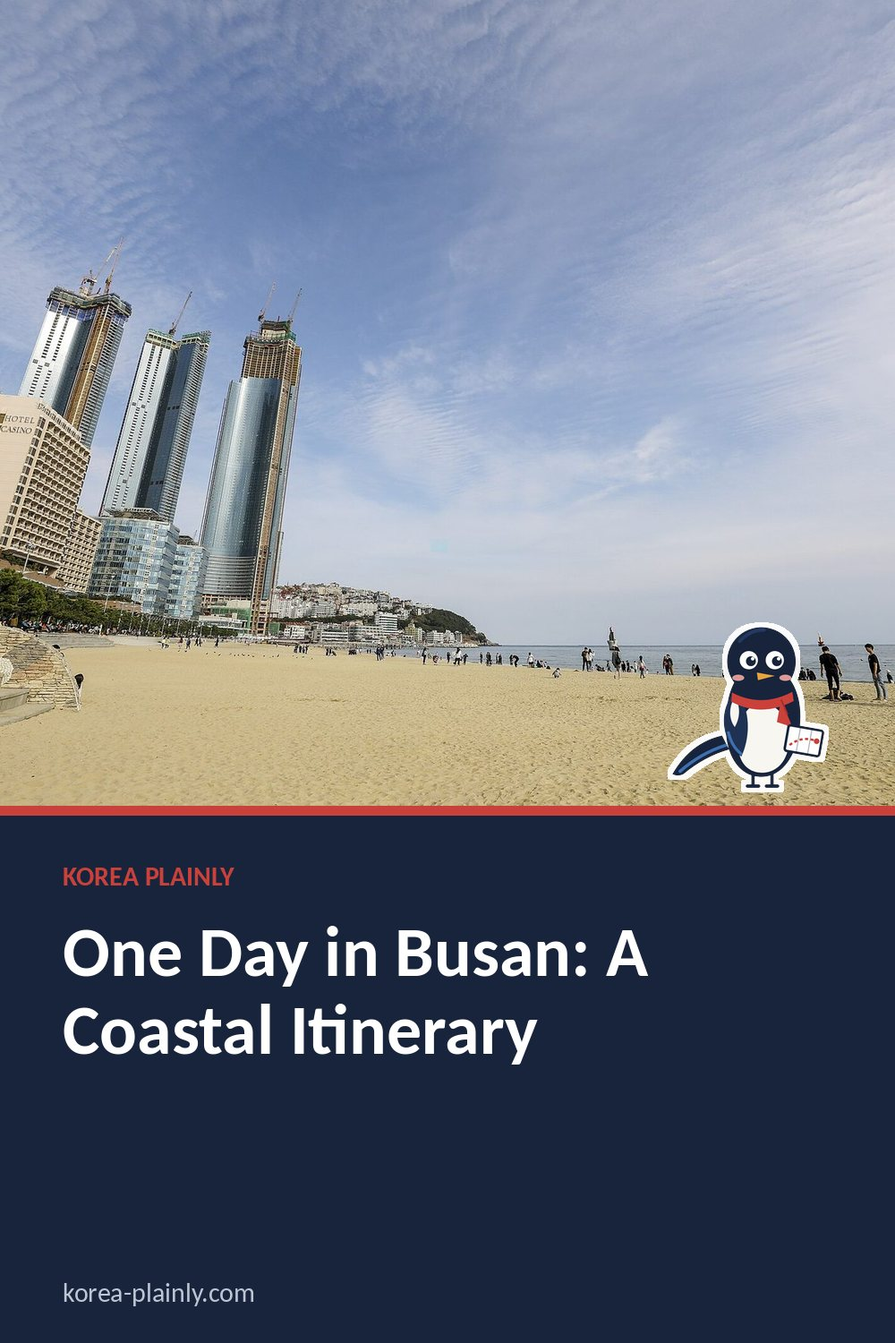
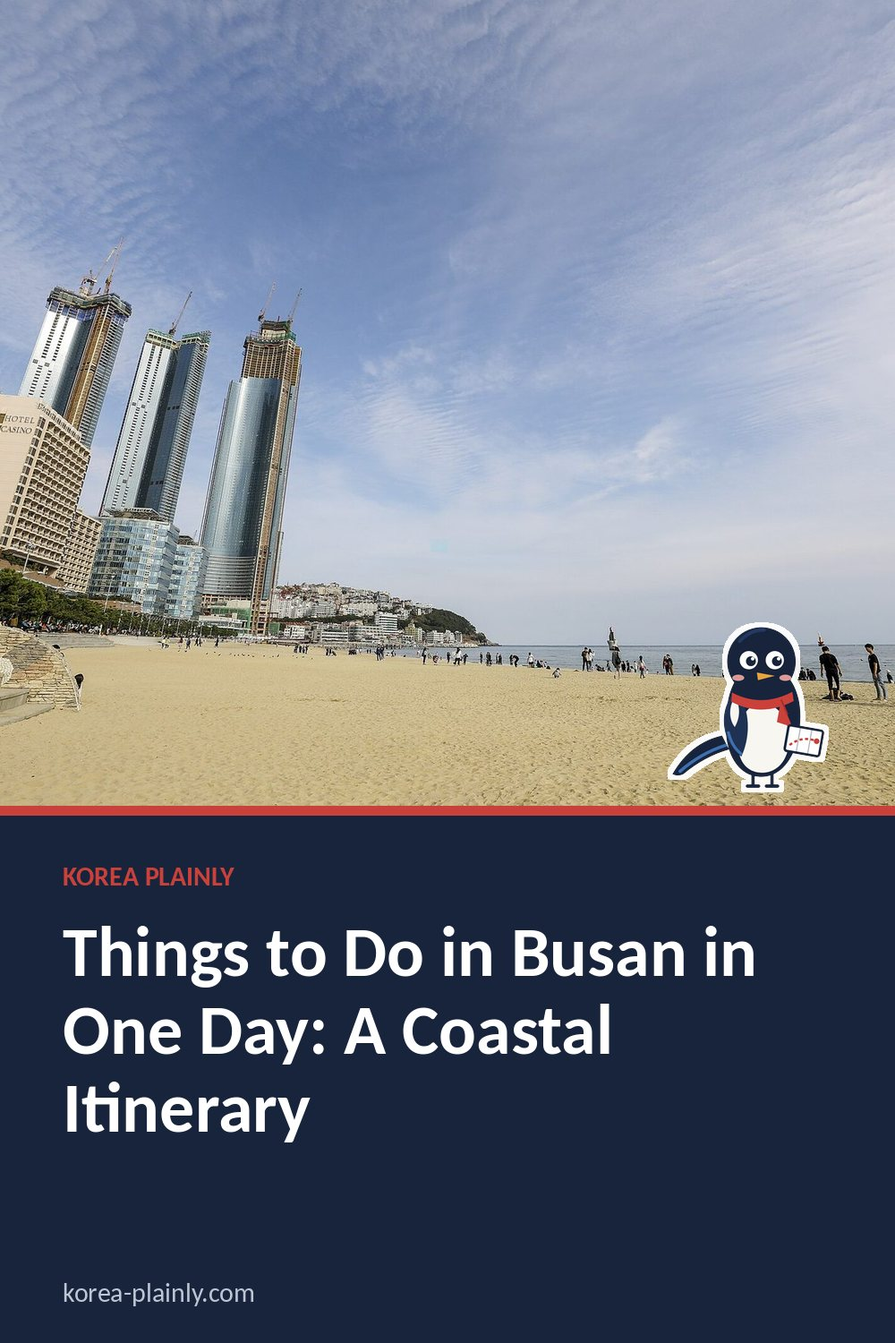
Busan one-day guide: retitle for 'things to do in busan for a day' and expand with timings, Blueline Park, Gwangalli, a west-side plan and new FAQ; retry Seoraksan hikes cover photo (Ulsanbawi); queue won and winter ice skating topics plus two practical topics
Claude-Session: https://claude.ai/code/session_01MMQnqEFzv8BAtP6HV673Zg

Changed region(s): [[0.062, 0.6747, 0.868, 0.8587]]

diff --git a/busan-1-day-itinerary.html b/busan-1-day-itinerary.html
@@ -11,13 +11,11 @@
 >
 
 <link rel="stylesheet" href="style.css?v=20261015-1">
-<title>
-One Day in Busan: A Coastal Itinerary | Korea Plainly
-</title>
+<title>Things to Do in Busan in One Day: A Coastal Itinerary</title>
 
 <meta
   name="description"
-  content="Spend one day on Busan's east coast: Haedong Yonggungsa Temple in the morning, Haeundae Beach, a Korean spa in Centum City and dinner by the sea."
+  content="Things to do in Busan in one day: Haedong Yonggungsa Temple, Haeundae Beach and Blueline Park, a Centum City spa and Gwangalli at night."
 >
 <link
   rel="canonical"
@@ -31,12 +29,12 @@ One Day in Busan: A Coastal Itinerary | Korea Plainly
 
 <meta
   property="og:title"
-  content="One Day in Busan: A Coastal Itinerary"
+  content="Things to Do in Busan in One Day: A Coastal Itinerary"
 >
 
 <meta
   property="og:description"
-  content="Spend one day on Busan's east coast: Haedong Yonggungsa Temple in the morning, Haeundae Beach, a Korean spa in Centum City and dinner by the sea."
+  content="Things to do in Busan in one day: Haedong Yonggungsa Temple, Haeundae Beach and Blueline Park, a Centum City spa and Gwangalli at night."
 >
 
 <meta
@@ -61,12 +59,12 @@ One Day in Busan: A Coastal Itinerary | Korea Plainly
 
 <meta
   name="twitter:title"
-  content="One Day in Busan: A Coastal Itinerary"
+  content="Things to Do in Busan in One Day: A Coastal Itinerary"
 >
 
 <meta
   name="twitter:description"
-  content="Spend one day on Busan's east coast: Haedong Yonggungsa Temple in the morning, Haeundae Beach, a Korean spa in Centum City and dinner by the sea."
+  content="Things to do in Busan in one day: Haedong Yonggungsa Temple, Haeundae Beach and Blueline Park, a Centum City spa and Gwangalli at night."
 >
 
 <meta
@@ -249,9 +247,9 @@ footer {
 <link rel="stylesheet" href="article.css?v=3">
 <link rel="stylesheet" href="https://fonts.googleapis.com/css2?family=DM+Sans:wght@400;500;600;700&family=Playfair+Display:ital,wght@0,600;1,600&display=swap">
 <link rel="icon" href="/favicon.svg" type="image/svg+xml">
-<script type="application/ld+json" id="kp-faq-ld">{"@context": "https://schema.org", "@type": "FAQPage", "mainEntity": [{"@type": "Question", "name": "Can I visit Busan as a day trip from Seoul?", "acceptedAnswer": {"@type": "Answer", "text": "Yes, with the KTX it is possible, but it makes for a long day. You will see more if you stay at least one night, ideally near Haeundae for this plan."}}, {"@type": "Question", "name": "How do I get to Haedong Yonggungsa?", "acceptedAnswer": {"@type": "Answer", "text": "The simplest way is a taxi from Haeundae, about 20 to 30 minutes. Local buses also go there; check the current route on Naver Map or KakaoMap."}}, {"@type": "Question", "name": "Is this plan good on a rainy day?", "acceptedAnswer": {"@type": "Answer", "text": "Partly. The temple and beach are outdoors, but the afternoon at SPA LAND and Shinsegae Centum City is indoors, so you can stretch that part if the weather is poor."}}]}</script>
-<script type="application/ld+json" id="kp-article-ld">{"@context": "https://schema.org", "@type": "Article", "headline": "One Day in Busan: A Coastal Itinerary", "description": "Spend one day on Busan", "image": ["https://korea-plainly.com/photo-busan-1-day-itinerary.jpg"], "datePublished": "2026-10-13", "dateModified": "2026-10-15", "author": {"@type": "Person", "name": "Jungsuk Kim", "url": "https://korea-plainly.com/about.html#author"}, "publisher": {"@type": "Organization", "name": "Korea Plainly", "url": "https://korea-plainly.com/"}, "mainEntityOfPage": "https://korea-plainly.com/busan-1-day-itinerary.html"}</script>
-<script type="application/ld+json" id="kp-breadcrumb-ld">{"@context": "https://schema.org", "@type": "BreadcrumbList", "itemListElement": [{"@type": "ListItem", "position": 1, "name": "Home", "item": "https://korea-plainly.com/"}, {"@type": "ListItem", "position": 2, "name": "Guides", "item": "https://korea-plainly.com/guides.html"}, {"@type": "ListItem", "position": 3, "name": "Travel Basics", "item": "https://korea-plainly.com/guides.html?category=travel"}, {"@type": "ListItem", "position": 4, "name": "One Day in Busan: A Coastal Itinerary", "item": "https://korea-plainly.com/busan-1-day-itinerary.html"}]}</script>
+<script type="application/ld+json" id="kp-faq-ld">{"@context": "https://schema.org", "@type": "FAQPage", "mainEntity": [{"@type": "Question", "name": "Is one day in Busan enough?", "acceptedAnswer": {"@type": "Answer", "text": "One day is enough to see the highlights of one side of the city, such as the temple, Haeundae and Gwangalli on the east coast. Two days let you add Gamcheon, Jagalchi and Nampo-dong on the west side without rushing."}}, {"@type": "Question", "name": "Can I visit Busan as a day trip from Seoul?", "acceptedAnswer": {"@type": "Answer", "text": "Yes, with the KTX it is possible, but it means about five hours on the train. Leave Seoul early, follow the west-side plan to stay close to Busan Station, and book your return train in advance. You will see more if you stay at least one night."}}, {"@type": "Question", "name": "Is this plan good on a rainy day?", "acceptedAnswer": {"@type": "Answer", "text": "Partly. The temple, beach and Blueline Park are outdoors and less pleasant in heavy rain, but the afternoon at SPA LAND and Shinsegae Centum City is indoors, so you can start there and stretch it if the weather is poor."}}]}</script>
+<script type="application/ld+json" id="kp-article-ld">{"@context": "https://schema.org", "@type": "Article", "headline": "Things to Do in Busan in One Day: A Coastal Itinerary", "description": "Things to do in Busan in one day: Haedong Yonggungsa Temple, Haeundae Beach and Blueline Park, a Centum City spa and Gwangalli at night.", "image": ["https://korea-plainly.com/photo-busan-1-day-itinerary.jpg"], "datePublished": "2026-10-13", "dateModified": "2026-10-30", "author": {"@type": "Person", "name": "Jungsuk Kim", "url": "https://korea-plainly.com/about.html#author"}, "publisher": {"@type": "Organization", "name": "Korea Plainly", "url": "https://korea-plainly.com/"}, "mainEntityOfPage": "https://korea-plainly.com/busan-1-day-itinerary.html"}</script>
+<script type="application/ld+json" id="kp-breadcrumb-ld">{"@context": "https://schema.org", "@type": "BreadcrumbList", "itemListElement": [{"@type": "ListItem", "position": 1, "name": "Home", "item": "https://korea-plainly.com/"}, {"@type": "ListItem", "position": 2, "name": "Guides", "item": "https://korea-plainly.com/guides.html"}, {"@type": "ListItem", "position": 3, "name": "Travel Basics", "item": "https://korea-plainly.com/guides.html?category=travel"}, {"@type": "ListItem", "position": 4, "name": "Things to Do in Busan in One Day: A Coastal Itinerary", "item": "https://korea-plainly.com/busan-1-day-itinerary.html"}]}</script>
 <meta property="article:published_time" content="2026-10-13">
 </head>
 
@@ -282,12 +280,12 @@ TRAVEL BASICS · ITINERARY
 </div>
 
 <h1>
-One Day in Busan: A Coastal Itinerary
+Things to Do in Busan in One Day: A Coastal Itinerary
 </h1>
-<p class="kp-date" data-kp="date">By <a href="about.html#author">Jungsuk Kim</a>, Korea Plainly · Published <time datetime="2026-10-13">13 October 2026</time> · Updated <time datetime="2026-10-15">15 October 2026</time></p>
+<p class="kp-date" data-kp="date">By <a href="about.html#author">Jungsuk Kim</a>, Korea Plainly · Published <time datetime="2026-10-13">13 October 2026</time> · Updated <time datetime="2026-10-30">30 October 2026</time></p>
 
 <p class="dek">
-Spend one day on Busan's east coast: Haedong Yonggungsa Temple in the morning, Haeundae Beach, a Korean spa in Centum City and dinner by the sea.
+Things to do in Busan in one day: Haedong Yonggungsa Temple, Haeundae Beach and Blueline Park, a Centum City spa and Gwangalli at night.
 </p>
 
 <img
@@ -299,11 +297,11 @@ Spend one day on Busan's east coast: Haedong Yonggungsa Temple in the morning, H
 
 <article>
 
-<p>Busan is spread out along the coast, so the best way to see it in a day is to stay on one side of the city. This plan follows the east coast: a temple on the rocks in the morning, Haeundae Beach in the middle of the day and a Korean spa in Centum City in the afternoon, finishing with dinner back by the sea. The stops are close enough that you spend minutes, not hours, getting between them.</p>
+<p>Busan stretches for more than 40 kilometres along the coast, and the most common first-day mistake is trying to see both ends of it. If you are wondering what to do in Busan in one day, the answer is to pick one side of the city and stay there. This plan follows the east coast: a temple on the rocks in the morning, Haeundae Beach and the old coastal railway at midday, a long soak in a Centum City spa in the afternoon, and the lit-up Gwangan Bridge after dinner. Each hop takes 10 to 30 minutes, so you spend the day seeing things rather than sitting on the subway.</p>
 
-<div class="tip"><strong>Coming from Seoul?</strong> The KTX train from Seoul Station to Busan Station takes about two and a half hours. Busan Station is on the other side of the city from Haeundae, so allow about an hour by subway (Line 1, then Line 2) or stay near Haeundae the night before.</div>
+<div class="tip"><strong>Coming from Seoul?</strong> The KTX from Seoul Station to Busan Station takes about two and a half hours. Busan Station is on the old side of the city, far from Haeundae, so allow about an hour by subway (Line 1 to Seomyeon, then Line 2) or stay near Haeundae the night before. If you are starting the day at Busan Station, the west-side plan further down may suit you better.</div>
 
-<nav class="kp-toc" data-kp="toc" aria-label="On this page"><p>On this page</p><ol><li><a href="#morning-haedong-yonggungsa-temple">Morning: Haedong Yonggungsa Temple</a></li><li><a href="#midday-haeundae-beach">Midday: Haeundae Beach</a></li><li><a href="#afternoon-a-korean-spa-in-centum-city">Afternoon: a Korean spa in Centum City</a></li><li><a href="#evening-dinner-by-the-sea">Evening: dinner by the sea</a></li><li><a href="#if-you-have-more-time">If you have more time</a></li><li><a href="#practical-tips-for-a-day-in-busan">Practical tips for a day in Busan</a></li><li><a href="#faq">FAQ</a></li></ol></nav>
+<nav class="kp-toc" data-kp="toc" aria-label="On this page"><p>On this page</p><ol><li><a href="#the-day-at-a-glance">The day at a glance</a></li><li><a href="#morning-haedong-yonggungsa-temple">Morning: Haedong Yonggungsa Temple</a></li><li><a href="#midday-haeundae-beach">Midday: Haeundae Beach and Blueline Park</a></li><li><a href="#afternoon-a-korean-spa-in-centum-city">Afternoon: a Korean spa in Centum City</a></li><li><a href="#evening-dinner-by-the-sea">Evening: dinner by the sea</a></li><li><a href="#west-side-plan">If you start at Busan Station: the west-side plan</a></li><li><a href="#practical-tips-for-a-day-in-busan">Practical tips for a day in Busan</a></li><li><a href="#faq">FAQ</a></li></ol></nav>
 <!-- kp-video -->
 <figure class="kp-video kp-long"><style>.kp-video{margin:1.5rem auto;max-width:300px;text-align:center}.kp-video .kp-video-box{position:relative;display:block;aspect-ratio:9/16;border-radius:14px;overflow:hidden;background:#111}.kp-video img,.kp-video iframe{position:absolute;inset:0;width:100%;height:100%;object-fit:cover;border:0;margin:0}.kp-video .kp-play{position:absolute;left:50%;top:30%;width:72px;height:72px;margin:-36px 0 0 -36px;border-radius:50%;background:rgba(201,65,58,.92);box-shadow:0 4px 18px rgba(0,0,0,.35)}.kp-video .kp-play:after{content:'';position:absolute;left:29px;top:22px;border-style:solid;border-width:14px 0 14px 22px;border-color:transparent transparent transparent #fff}.kp-video p{font-size:.9rem;margin:.5rem 0 0;color:#5b6472}.kp-video.kp-long{max-width:820px}.kp-video.kp-long .kp-video-box{aspect-ratio:16/9}.kp-video.kp-long .kp-play{top:50%}.kp-video .kp-sub{margin-top:10px}.kp-sub{display:inline-flex;align-items:center;gap:8px;background:#c9413a;color:#fff!important;font-weight:700;font-size:14px;line-height:1;padding:10px 16px;border-radius:999px;text-decoration:none!important;white-space:nowrap}.kp-sub:before{content:'';border-style:solid;border-width:6px 0 6px 10px;border-color:transparent transparent transparent #fff}.kp-sub:hover{background:#a8332d}</style>
 <a class="kp-video-box" href="https://www.youtube.com/watch?v=5vIbm2LQPmY" data-yt="5vIbm2LQPmY" aria-label="Play video: Things to Do in Busan in One Day: Temple, Beach and Spa" target="_blank" rel="noopener"><img src="img/video-busan-1-day-itinerary-long.jpg" alt="Things to Do in Busan in One Day: Temple, Beach and Spa" width="1280" height="720" loading="lazy"><span class="kp-play"></span></a>
@@ -312,34 +310,50 @@ Spend one day on Busan's east coast: Haedong Yonggungsa Temple in the morning, H
 <script type="application/ld+json">{"@context": "https://schema.org", "@type": "VideoObject", "name": "Things to Do in Busan in One Day: Temple, Beach and Spa", "description": "One Day in Busan: Temple, Haeundae Beach and Spa: the full guide as a video.", "thumbnailUrl": ["https://korea-plainly.com/img/video-busan-1-day-itinerary-long.jpg"], "uploadDate": "2026-10-14T23:09:13+09:00", "duration": "PT539S", "embedUrl": "https://www.youtube.com/embed/5vIbm2LQPmY", "url": "https://www.youtube.com/watch?v=5vIbm2LQPmY"}</script><script>document.querySelectorAll('.kp-video-box[data-yt]').forEach(function(a){a.addEventListener('click',function(e){e.preventDefault();var f=document.createElement('iframe');f.src='https://www.youtube-nocookie.com/embed/'+a.dataset.yt+'?autoplay=1&playsinline=1&rel=0';f.title=a.getAttribute('aria-label');f.allow='autoplay; encrypted-media; picture-in-picture';f.allowFullscreen=true;var d=document.createElement('div');d.className='kp-video-box';d.appendChild(f);a.replaceWith(d);});});</script>
 </figure>
 <!-- /kp-video -->
-<h2 id="morning-haedong-yonggungsa-temple">Morning: Haedong Yonggungsa Temple</h2>
-<p>Start at <a href="busan-culture-haedong-yonggungsa-temple.html">Haedong Yonggungsa</a>, a Buddhist temple built on the rocks above the sea in Gijang, north-east of Haeundae. It is one of the few Korean temples on the shoreline rather than in the mountains, and it gets busy from mid-morning, so go early. A taxi from Haeundae takes around 20 to 30 minutes depending on traffic; local buses also run, and Naver Map or KakaoMap will show the current route.</p>
-<p>Allow about an hour. There are steps down to the main hall, and the temple is a place of worship, so keep your voice low and be considerate with photos.</p>
-<p>The temple is in the Osiria area, which also has a large outlet mall and resorts. If you would rather wake up nearby, see our guide to <a href="busan-stay-ananti-at-busan-cove.html">Ananti at Busan Cove</a>.</p>
+<h2 id="the-day-at-a-glance">The day at a glance</h2>
+<ul>
+<li><strong>8:00–10:00</strong> Haedong Yonggungsa Temple, before the tour groups</li>
+<li><strong>10:30–13:30</strong> Haeundae Beach, Blueline Park and lunch at the market</li>
+<li><strong>14:00–17:30</strong> SPA LAND or shopping in Centum City</li>
+<li><strong>18:00 onwards</strong> Dinner in Haeundae or Gwangalli, then the bridge lights</li>
+</ul>
+<p>Treat the times as a rhythm rather than a timetable. The key point is to do the temple first, because it is the stop that gets most crowded and is furthest out.</p>
 
-<h2 id="midday-haeundae-beach">Midday: Haeundae Beach</h2>
-<p>Head back to Haeundae, Busan's best-known beach. Walk the sand and the promenade, then eat lunch in the streets behind the beach. Haeundae Traditional Market, a short walk from the sand, is an easy place for snacks such as fish cakes and tteokbokki.</p>
-<p>If you have time, the Haeundae Blueline Park runs a beach train and small sky capsules along the old coastal railway between Mipo, near the end of the beach, and Cheongsapo. Tickets for the sky capsules can sell out at busy times, so book ahead in summer and at weekends.</p>
+<h2 id="morning-haedong-yonggungsa-temple">Morning: Haedong Yonggungsa Temple</h2>
+<p>Start at <a href="busan-culture-haedong-yonggungsa-temple.html">Haedong Yonggungsa</a>, a Buddhist temple built on the rocks above the sea in Gijang, north-east of Haeundae. Most Korean temples sit in the mountains; this one has waves breaking below the main hall, which is why it fills up from mid-morning. Locals come at sunrise, especially on New Year's Day.</p>
+<p>A taxi from Haeundae takes around 20 to 30 minutes. By public transport, the nearest rail stop is Osiria Station on the Donghae Line, followed by a short bus ride or a walk of about 20 minutes; Naver Map or KakaoMap will show the current bus. Show a driver the Korean name, 해동용궁사, or book through the <a href="kakao-t-taxi-korea.html">Kakao T app</a>.</p>
+<p>Allow about an hour. The path down from the car park passes a row of zodiac statues and a long flight of steps, so wear comfortable shoes. It is a working temple: keep your voice down near the halls, do not photograph people praying, and do not climb on the rocks beside the water.</p>
+<p>The temple is in the Osiria area, which also has a large outlet mall and resort hotels. If you would rather wake up nearby, see our guide to <a href="busan-stay-ananti-at-busan-cove.html">Ananti at Busan Cove</a>.</p>
+
+<h2 id="midday-haeundae-beach">Midday: Haeundae Beach and Blueline Park</h2>
+<p>Head back to Haeundae, Busan's best-known beach. Even outside swimming season the promenade is a good walk, with views of the Marine City towers at the western end. For lunch, Haeundae Traditional Market sits a few minutes from the sand, near Haeundae Station (Line 2). It is an easy place for fish cakes (eomuk), tteokbokki and hotteok, and several small restaurants serve dwaeji gukbap, the pork and rice soup Busan is known for. Our <a href="korean-street-food-guide.html">street food guide</a> explains what to order.</p>
+<p>From Mipo, at the eastern end of the beach, the <strong>Haeundae Blueline Park</strong> runs along the old coastal railway towards Cheongsapo and Songjeong. There are two rides: the beach train, a slower tram with sea-facing seats that runs the whole line, and the sky capsules, small pastel cars for up to four people on an elevated track between Mipo and Cheongsapo. The capsules are the photogenic choice but often sell out on weekends and in summer, so book ahead online. If they are full, the walking path beside the tracks gives you the same coast for free.</p>
 
 <h2 id="afternoon-a-korean-spa-in-centum-city">Afternoon: a Korean spa in Centum City</h2>
-<p>Centum City is one stop from Haeundae by subway (Line 2). Spend a slow afternoon at <a href="busan-leisure-spa-land-centum-city.html">SPA LAND Centum City</a>, a large spa inside Shinsegae Centum City department store with hot-spring baths and themed rest rooms. It is a comfortable introduction to Korean bathhouse culture; our <a href="korean-bathhouse-guide.html">bathhouse guide</a> explains the basic rules. The same building is good for shopping if the weather turns, and our guide to <a href="busan-shopping-lululemon-busan-shinsegae-centum-city.html">shopping at Shinsegae Centum City</a> covers one of its stores.</p>
+<p>Centum City is three stops west of Haeundae on Line 2, about ten minutes away. Spend a slow afternoon at <a href="busan-leisure-spa-land-centum-city.html">SPA LAND Centum City</a>, inside the Shinsegae Centum City department store. It has hot-spring baths, separate for men and women, and a large shared area of themed sauna rooms where everyone wears the provided clothes. After a morning of steps and sand, two or three hours here is the most restful part of the day.</p>
+<p>The bathing areas follow normal Korean rules: shower first, bathe without a swimsuit and tie long hair up. Our <a href="korean-bathhouse-guide.html">bathhouse guide</a> covers the etiquette, including tattoos. If a spa is not for you, the department store itself fills a rainy afternoon; see our guide to <a href="busan-shopping-lululemon-busan-shinsegae-centum-city.html">shopping at Shinsegae Centum City</a>.</p>
 
 <h2 id="evening-dinner-by-the-sea">Evening: dinner by the sea</h2>
-<p>Return to Haeundae for dinner. For Korean grilled ribs, <a href="busan-food-ribs-of-legend-haeundae.html">Ribs of Legend Haeundae</a> is close to the beach. Afterwards, walk along the beach at night or take a short taxi ride to Gwangalli Beach, where the Gwangan Bridge is lit up after dark.</p>
+<p>For dinner you have two good options. Back in Haeundae, <a href="busan-food-ribs-of-legend-haeundae.html">Ribs of Legend Haeundae</a> is close to the beach for Korean grilled ribs, and the streets behind the sand have plenty of seafood and barbecue. Or take a 15-minute taxi to <strong>Gwangalli Beach</strong> (Gwangan Station, Line 2), where restaurants and bars face the Gwangan Bridge. The bridge is lit up every evening, and Gwangalli has a more relaxed, local feel than Haeundae. Raw fish (hoe) from the Millak area at the eastern end of the beach is the classic Busan meal here.</p>
 
-<h2 id="if-you-have-more-time">If you have more time</h2>
-<ul>
-<li><strong>A sea-view cafe:</strong> the Gijang coast has several cafes with ocean views. <a href="busan-cafe-waveon-coffee.html">Waveon Coffee</a> is one of the best known, though it is a drive north of Haeundae, so it suits visitors with a car or a taxi budget.</li>
-<li><strong>The west side of Busan:</strong> Jagalchi Fish Market, the BIFF Square street food area and Gamcheon Culture Village fill a second day well.</li>
-</ul>
+<h2 id="west-side-plan">If you start at Busan Station: the west-side plan</h2>
+<p>Arriving by KTX and leaving the same day? The older west side is closer and works just as well:</p>
+<ol>
+<li><strong>Gamcheon Culture Village</strong> in the morning, the hillside of painted houses. Go by taxi or the village bus from Toseong Station (Line 1).</li>
+<li><strong>Jagalchi Fish Market</strong> for lunch: choose seafood downstairs and have it cooked upstairs.</li>
+<li><strong>Nampo-dong and BIFF Square</strong> for street snacks such as ssiat hotteok, a hotteok filled with seeds.</li>
+<li><strong>Yongdusan Park and Busan Tower</strong> at sunset, a short walk away, then back to Busan Station.</li>
+</ol>
 
 <h2 id="practical-tips-for-a-day-in-busan">Practical tips for a day in Busan</h2>
 <ul>
-<li>The same transit card you use in Seoul works on Busan's subway and buses.</li>
-<li>Taxis are the easiest way to reach Haedong Yonggungsa. Show the driver the name in Korean (해동용궁사) or book with the <a href="kakao-t-taxi-korea.html">Kakao T app</a>.</li>
-<li>Summer weekends at Haeundae are very busy. Start early and keep the beach for the late morning.</li>
-<li>Check opening hours on a map app on the day, especially for the spa and the Blueline Park.</li>
+<li>The <a href="korea-transit-card-guide.html">T-money card</a> you use in Seoul works on Busan's subway, Donghae Line trains and buses.</li>
+<li>If you plan to pay for several attractions, compare the <a href="visit-busan-pass.html">Visit Busan Pass</a> with paying as you go.</li>
+<li>Summer weekends at Haeundae are very busy, and some places close one day a week. Check each stop on Naver Map or KakaoMap on the day.</li>
+<li>Coastal wind makes the temple and beach colder than the city centre from November to March, so bring a layer.</li>
+<li>Busan has hills and many steps. A light bag and good shoes make a bigger difference than any app.</li>
 </ul>
+<p>If you have longer, our guide to <a href="things-to-do-in-busan.html">things to do in Busan by area</a> adds Haeundae's cafes, the Gijang coast and the west side for a second day.</p>
 
 <section class="faq">
 <!-- kp-video -->
@@ -351,12 +365,12 @@ Spend one day on Busan's east coast: Haedong Yonggungsa Temple in the morning, H
 </figure>
 <!-- /kp-video -->
 <h2 id="faq">FAQ</h2>
+<h3>Is one day in Busan enough?</h3>
+<p>One day is enough to see the highlights of one side of the city, such as the temple, Haeundae and Gwangalli on the east coast. Two days let you add Gamcheon, Jagalchi and Nampo-dong on the west side without rushing.</p>
 <h3>Can I visit Busan as a day trip from Seoul?</h3>
-<p>Yes, with the KTX it is possible, but it makes for a long day. You will see more if you stay at least one night, ideally near Haeundae for this plan.</p>
-<h3>How do I get to Haedong Yonggungsa?</h3>
-<p>The simplest way is a taxi from Haeundae, about 20 to 30 minutes. Local buses also go there; check the current route on Naver Map or KakaoMap.</p>
+<p>Yes, with the KTX it is possible, but it means about five hours on the train. Leave Seoul early, follow the west-side plan to stay close to Busan Station, and book your return train in advance. You will see more if you stay at least one night.</p>
 <h3>Is this plan good on a rainy day?</h3>
-<p>Partly. The temple and beach are outdoors, but the afternoon at SPA LAND and Shinsegae Centum City is indoors, so you can stretch that part if the weather is poor.</p>
+<p>Partly. The temple, beach and Blueline Park are outdoors and less pleasant in heavy rain, but the afternoon at SPA LAND and Shinsegae Centum City is indoors, so you can start there and stretch it if the weather is poor.</p>
 </section>
 
 <a class="back" href="guides.html">← Back to all guides</a>

diff --git a/busan.html b/busan.html
@@ -53,7 +53,7 @@ h1{font-size:clamp(44px,8vw,82px);line-height:1;margin:12px 0}.intro{max-width:7
 <main><div class="kicker">Regional hub</div><h1>Busan</h1>
 <p class="intro">Korea&#x27;s second city sits on the sea: beaches at Haeundae and Gwangalli, a huge fish market, hillside villages and temples on the cliffs. It is about two and a half hours from Seoul by KTX.</p>
 <div class="chips"><a href="busan-see-do.html">See &amp; Do</a><a href="busan-eat-drink.html">Eat &amp; Drink</a><a href="busan-shop.html">Shop</a><a href="busan-stay.html">Stay</a></div>
-<a class="plan" href="busan-1-day-itinerary.html"><img src="photo-busan-1-day-itinerary.jpg" alt="" loading="lazy" srcset="img/photo-busan-1-day-itinerary.4bc3cbcf.w480.webp 480w, img/photo-busan-1-day-itinerary.4bc3cbcf.w800.webp 800w, img/photo-busan-1-day-itinerary.4bc3cbcf.w1200.webp 1200w, photo-busan-1-day-itinerary.jpg 1600w" sizes="(max-width: 600px) 100vw, (max-width: 1000px) 50vw, 400px" decoding="async"><div><small>Plan your days</small><b>One Day in Busan: A Coastal Itinerary</b><em>Read the itinerary &rarr;</em></div></a>
+<a class="plan" href="busan-1-day-itinerary.html"><img src="photo-busan-1-day-itinerary.jpg" alt="" loading="lazy" srcset="img/photo-busan-1-day-itinerary.4bc3cbcf.w480.webp 480w, img/photo-busan-1-day-itinerary.4bc3cbcf.w800.webp 800w, img/photo-busan-1-day-itinerary.4bc3cbcf.w1200.webp 1200w, photo-busan-1-day-itinerary.jpg 1600w" sizes="(max-width: 600px) 100vw, (max-width: 1000px) 50vw, 400px" decoding="async"><div><small>Plan your days</small><b>Things to Do in Busan in One Day: A Coastal Itinerary</b><em>Read the itinerary &rarr;</em></div></a>
 <section class="grid"><article class="card"><a href="busan-food-ribs-of-legend-haeundae.html"><img src="regional-busan-food-ribs-of-legend-haeundae.jpg" alt="" loading="lazy" srcset="img/regional-busan-food-ribs-of-legend-haeundae.d7af43df.w480.webp 480w, img/regional-busan-food-ribs-of-legend-haeundae.d7af43df.w800.webp 800w, img/regional-busan-food-ribs-of-legend-haeundae.d7af43df.w1200.webp 1200w, regional-busan-food-ribs-of-legend-haeundae.jpg 1600w" sizes="(max-width: 600px) 100vw, (max-width: 1000px) 50vw, 400px" decoding="async"><div class="card-body"><div class="tag">Food</div><h2>Ribs of Legend Haeundae: Korean Beef Ribs</h2><span>Read guide &rarr;</span></div></a></article><article class="card"><a href="busan-cafe-waveon-coffee.html"><img src="regional-busan-cafe-waveon-coffee.jpg" alt="" loading="lazy" srcset="img/regional-busan-cafe-waveon-coffee.75a8c69e.w480.webp 480w, img/regional-busan-cafe-waveon-coffee.75a8c69e.w800.webp 800w, img/regional-busan-cafe-waveon-coffee.75a8c69e.w1200.webp 1200w, regional-busan-cafe-waveon-coffee.jpg 1600w" sizes="(max-width: 600px) 100vw, (max-width: 1000px) 50vw, 400px" decoding="async"><div class="card-body"><div class="tag">Cafe</div><h2>Waveon Coffee: A Seaside Café in Gijang</h2><span>Read guide &rarr;</span></div></a></article><article class="card"><a href="busan-shopping-lululemon-busan-shinsegae-centum-city.html"><img src="regional-busan-shopping-lululemon-busan-shinsegae-centum-city.jpg" alt="" loading="lazy" srcset="img/regional-busan-shopping-lululemon-busan-shinsegae-centum-city.a274996a.w480.webp 480w, img/regional-busan-shopping-lululemon-busan-shinsegae-centum-city.a274996a.w800.webp 800w, img/regional-busan-shopping-lululemon-busan-shinsegae-centum-city.a274996a.w1200.webp 1200w, regional-busan-shopping-lululemon-busan-shinsegae-centum-city.jpg 1600w" sizes="(max-width: 600px) 100vw, (max-width: 1000px) 50vw, 400px" decoding="async"><div class="card-body"><div class="tag">Shopping</div><h2>lululemon Busan Shinsegae Centum City: Activewear shopping</h2><span>Read guide &rarr;</span></div></a></article><article class="card"><a href="busan-culture-haedong-yonggungsa-temple.html"><img src="regional-busan-culture-haedong-yonggungsa-temple.jpg" alt="" loading="lazy" srcset="img/regional-busan-culture-haedong-yonggungsa-temple.9760b25a.w480.webp 480w, img/regional-busan-culture-haedong-yonggungsa-temple.9760b25a.w800.webp 800w, img/regional-busan-culture-haedong-yonggungsa-temple.9760b25a.w1200.webp 1200w, regional-busan-culture-haedong-yonggungsa-temple.jpg 1600w" sizes="(max-width: 600px) 100vw, (max-width: 1000px) 50vw, 400px" decoding="async"><div class="card-body"><div class="tag">Culture</div><h2>Haedong Yonggungsa: Busan’s Temple Above the Sea</h2><span>Read guide &rarr;</span></div></a></article><article class="card"><a href="busan-leisure-spa-land-centum-city.html"><img src="regional-busan-leisure-spa-land-centum-city.jpg" alt="" loading="lazy" srcset="img/regional-busan-leisure-spa-land-centum-city.573476a0.w480.webp 480w, img/regional-busan-leisure-spa-land-centum-city.573476a0.w800.webp 800w, img/regional-busan-leisure-spa-land-centum-city.573476a0.w1200.webp 1200w, regional-busan-leisure-spa-land-centum-city.jpg 1600w" sizes="(max-width: 600px) 100vw, (max-width: 1000px) 50vw, 400px" decoding="async"><div class="card-body"><div class="tag">Leisure</div><h2>SPA LAND Centum City: A Relaxing Korean Spa Break in Busan</h2><span>Read guide &rarr;</span></div></a></article><article class="card"><a href="busan-stay-ananti-at-busan-cove.html"><img src="regional-busan-stay-ananti-at-busan-cove.jpg" alt="" loading="lazy" srcset="img/regional-busan-stay-ananti-at-busan-cove.b6fef533.w480.webp 480w, img/regional-busan-stay-ananti-at-busan-cove.b6fef533.w800.webp 800w, img/regional-busan-stay-ananti-at-busan-cove.b6fef533.w1200.webp 1200w, regional-busan-stay-ananti-at-busan-cove.jpg 1600w" sizes="(max-width: 600px) 100vw, (max-width: 1000px) 50vw, 400px" decoding="async"><div class="card-body"><div class="tag">Stay</div><h2>Ananti at Busan Cove: A Seaside Hotel in Gijang</h2><span>Read guide &rarr;</span></div></a></article></section><section class="overview"><h2>Planning a trip to Busan</h2><p class="start">New to Busan? Start with <a href="busan-1-day-itinerary.html">a 1-day itinerary</a> and <a href="ktx-train-guide.html">the KTX train from Seoul</a>.</p><h3>Getting there</h3><p>The KTX train runs from Seoul Station to Busan Station in about two and a half to three hours. Gimhae Airport has domestic flights from Seoul and Jeju and some international routes, and is linked to the city by light rail and bus.</p><h3>How long to stay</h3><p>Two or three days is enough for the beaches, Gamcheon Culture Village, Haedong Yonggungsa temple and Jagalchi fish market without rushing. Busan also works as the last stop of a one-week trip from Seoul via Gyeongju.</p><h3>Getting around</h3><p>Busan has a subway with four main lines, and the same T-money card you use in Seoul works here. The sights are spread along the coast, so expect some longer rides; buses and taxis fill the gaps, especially for the temple and the hillside villages.</p><h3>When to go</h3><p>Busan is a few degrees milder than Seoul in winter. July and August are beach season, lively but crowded. Spring and autumn are the best for walking the coastal paths, and early October brings the Busan International Film Festival.</p><h3>Where to stay</h3><p>Haeundae is the classic beach base with big hotels; Gwangalli has the bridge view and a lively bar scene; Seomyeon and Nampo are central and good for food, markets and transport.</p><h3>What to see first</h3><p>Spend one day on the east side: Haeundae Beach, the Blueline Park sky capsules or beach train along the coast, and Haedong Yonggungsa, a temple built on the rocks above the sea. Spend another in the old centre: Jagalchi fish market, BIFF Square, Gukje Market and the colourful hillside houses of Gamcheon Culture Village. In the evening, the Gwangan Bridge lights up over Gwangalli Beach.</p><h3>What to eat</h3><p>Busan is known for dwaeji gukbap (pork and rice soup), milmyeon (cold wheat noodles, a local take on naengmyeon), and very fresh raw fish at Jagalchi, where you choose your fish downstairs and eat it upstairs. Ssiat hotteok, a sweet pancake filled with seeds, is the street snack to try around BIFF Square.</p><h3>Good to know</h3><p>Distances along the coast are longer than they look on a map, so group sights by area. Beaches are busiest on summer weekends and during the July and August holidays. Taxis are a good shortcut up the steep roads to Gamcheon and between the temple and Haeundae.</p></section>
 <!-- kp-region-festivals -->
 <style>.kp-fest{list-style:none;padding:0;margin:14px 0 26px}.kp-fest li{display:grid;grid-template-columns:110px 1fr;gap:14px;padding:13px 0;border-bottom:1px solid rgba(20,28,42,.1)}.kp-fest time{font-size:13px;font-weight:700;color:#c9413a;line-height:1.4}.kp-fest b{display:block;font-size:16px;line-height:1.35;color:#17243c}.kp-fest small{display:block;font-size:13px;color:#5b6472;margin-top:3px}.kp-fest a{font-size:13px;font-weight:600;color:#c9413a}.kp-fest-note{font-size:13px;color:#5b6472}@media(max-width:520px){.kp-fest li{grid-template-columns:1fr;gap:4px}}</style><section class="kp-region-fest"><h2>Festivals coming up in Busan</h2><ul class="kp-fest"><li><time datetime="2026-09-19">19 Sep – 7 Nov</time><div><b>Moonlit Night Exercise Busan Challenge</b><small>73 Simingongwon-ro, Busanjin-gu, Busan ·  <span lang="ko">달밤에체조 부산 챌린지</span></small><a href="https://map.naver.com/p/search/%EB%8B%AC%EB%B0%A4%EC%97%90%EC%B2%B4%EC%A1%B0%20%EB%B6%80%EC%82%B0%20%EC%B1%8C%EB%A6%B0%EC%A7%80" target="_blank" rel="noopener">Find it on Naver Map</a></div></li><li><time datetime="2026-10-31">31 Oct – 1 Nov</time><div><b>International Ki Sports Festival</b><small>180 Haeyang-ro 195beon-gil, Yeongdo-gu, Busan ·  <span lang="ko">키스포츠페스티벌</span></small><a href="https://map.naver.com/p/search/%ED%82%A4%EC%8A%A4%ED%8F%AC%EC%B8%A0%ED%8E%98%EC%8A%A4%ED%8B%B0%EB%B2%8C" target="_blank" rel="noopener">Find it on Naver Map</a></div></li><li><time datetime="2026-11-06">6 Nov – 8 Nov</time><div><b>Busan Illustration Fair V.6</b><small>55 APEC-ro, Haeundae-gu, Busan ·  <span lang="ko">부산일러스트레이션페어V.6</span></small><a href="https://map.naver.com/p/search/%EB%B6%80%EC%82%B0%EC%9D%BC%EB%9F%AC%EC%8A%A4%ED%8A%B8%EB%A0%88%EC%9D%B4%EC%85%98%ED%8E%98%EC%96%B4V.6" target="_blank" rel="noopener">Find it on Naver Map</a></div></li></ul><p class="kp-fest-note"><a href="korea-festivals.html">See all festivals in Korea →</a></p></section>

diff --git a/seoraksan-hikes.html b/seoraksan-hikes.html
@@ -245,12 +245,12 @@ footer {
 <script async src="https://pagead2.googlesyndication.com/pagead/js/adsbygoogle.js?client=ca-pub-7379462117232471" crossorigin="anonymous"></script>
 <style>.kp-date{font-size:13px;color:#62635f;margin:-6px 0 22px}</style>
 <script type="application/ld+json" id="kp-faq-ld">{"@context": "https://schema.org", "@type": "FAQPage", "mainEntity": [{"@type": "Question", "name": "How should I choose between an easy, moderate, and full-day hike?", "acceptedAnswer": {"@type": "Answer", "text": "Choose based on your available time, fitness, and comfort with steep or uneven paths. An easy walk is a good choice for a relaxed visit or limited hiking experience. A moderate route takes more effort, while a full-day hike needs good stamina and careful planning. Check the route details before setting out."}}, {"@type": "Question", "name": "What should I bring for a Seoraksan hike?", "acceptedAnswer": {"@type": "Answer", "text": "Wear sturdy walking or hiking shoes, since trails may include rocks, steps, and uneven ground. Bring water, snacks, and clothing you can adjust if the weather changes. For a longer route, carry enough food and check the forecast and trail conditions before you go."}}, {"@type": "Question", "name": "Can I fit more than one hike into a day?", "acceptedAnswer": {"@type": "Answer", "text": "It may be possible to combine a short walk with another activity, but trying to complete several demanding routes can make the day rushed. Allow time for breaks and getting between trail areas. If you want a full-day hike, focus on one route and check for current trail closures or conditions before leaving."}}]}</script>
-<script type="application/ld+json" id="kp-article-ld">{"@context": "https://schema.org", "@type": "Article", "headline": "Seoraksan Hikes for First-Time Visitors: Easy, Moderate and Full-Day Trails", "description": "Choose a Seoraksan trail that fits your time and fitness level, from waterfall walks near Seorak-dong to the steep climb to Daecheongbong.", "image": ["https://korea-plainly.com/seoul.jpg"], "datePublished": "2026-10-30", "dateModified": "2026-10-30", "author": {"@type": "Person", "name": "Jungsuk Kim", "url": "https://korea-plainly.com/about.html#author"}, "publisher": {"@type": "Organization", "name": "Korea Plainly", "url": "https://korea-plainly.com/"}, "mainEntityOfPage": "https://korea-plainly.com/seoraksan-hikes.html"}</script>
-<script type="application/ld+json" id="kp-breadcrumb-ld">{"@context": "https://schema.org", "@type": "BreadcrumbList", "itemListElement": [{"@type": "ListItem", "position": 1, "name": "Home", "item": "https://korea-plainly.com/"}, {"@type": "ListItem", "position": 2, "name": "Guides", "item": "https://korea-plainly.com/guides.html"}, {"@type": "ListItem", "position": 3, "name": "Travel Basics", "item": "https://korea-plainly.com/guides.html?category=travel"}, {"@type": "ListItem", "position": 4, "name": "Seoraksan Hikes for First-Time Visitors: Easy, Moderate and Full-Day Trails", "item": "https://korea-plainly.com/seoraksan-hikes.html"}]}</script>
-<meta property="article:published_time" content="2026-10-30">
 <link rel="stylesheet" href="article.css?v=3">
 <link rel="stylesheet" href="https://fonts.googleapis.com/css2?family=DM+Sans:wght@400;500;600;700&family=Playfair+Display:ital,wght@0,600;1,600&display=swap">
 <link rel="icon" href="/favicon.svg" type="image/svg+xml">
+<script type="application/ld+json" id="kp-article-ld">{"@context": "https://schema.org", "@type": "Article", "headline": "Seoraksan Hikes for First-Time Visitors: Easy, Moderate and Full-Day Trails", "description": "Choose a Seoraksan trail that fits your time and fitness level, from waterfall walks near Seorak-dong to the steep climb to Daecheongbong.", "image": ["https://korea-plainly.com/seoul.jpg"], "datePublished": "2026-10-30", "dateModified": "2026-10-30", "author": {"@type": "Person", "name": "Jungsuk Kim", "url": "https://korea-plainly.com/about.html#author"}, "publisher": {"@type": "Organization", "name": "Korea Plainly", "url": "https://korea-plainly.com/"}, "mainEntityOfPage": "https://korea-plainly.com/seoraksan-hikes.html"}</script>
+<script type="application/ld+json" id="kp-breadcrumb-ld">{"@context": "https://schema.org", "@type": "BreadcrumbList", "itemListElement": [{"@type": "ListItem", "position": 1, "name": "Home", "item": "https://korea-plainly.com/"}, {"@type": "ListItem", "position": 2, "name": "Guides", "item": "https://korea-plainly.com/guides.html"}, {"@type": "ListItem", "position": 3, "name": "Travel Basics", "item": "https://korea-plainly.com/guides.html?category=travel"}, {"@type": "ListItem", "position": 4, "name": "Seoraksan Hikes for First-Time Visitors: Easy, Moderate and Full-Day Trails", "item": "https://korea-plainly.com/seoraksan-hikes.html"}]}</script>
+<meta property="article:published_time" content="2026-10-30">
 </head>
 
 <body class="kp-article">

diff --git a/guides.html b/guides.html
@@ -560,11 +560,11 @@ TRAVEL BASICS · NEW
 </small>
 
 <h2>
-One Day in Busan: A Coastal Itinerary
+Things to Do in Busan in One Day: A Coastal Itinerary
 </h2>
 
 <p>
-Spend one day on Busan's east coast: Haedong Yonggungsa Temple in the morning, Haeundae Beach, a Korean spa in Centum City and dinner by the sea.
+Things to do in Busan in one day: Haedong Yonggungsa Temple, Haeundae Beach and Blueline Park, a Centum City spa and Gwangalli at night.
 </p>
 
 <span class="guide-arrow">
